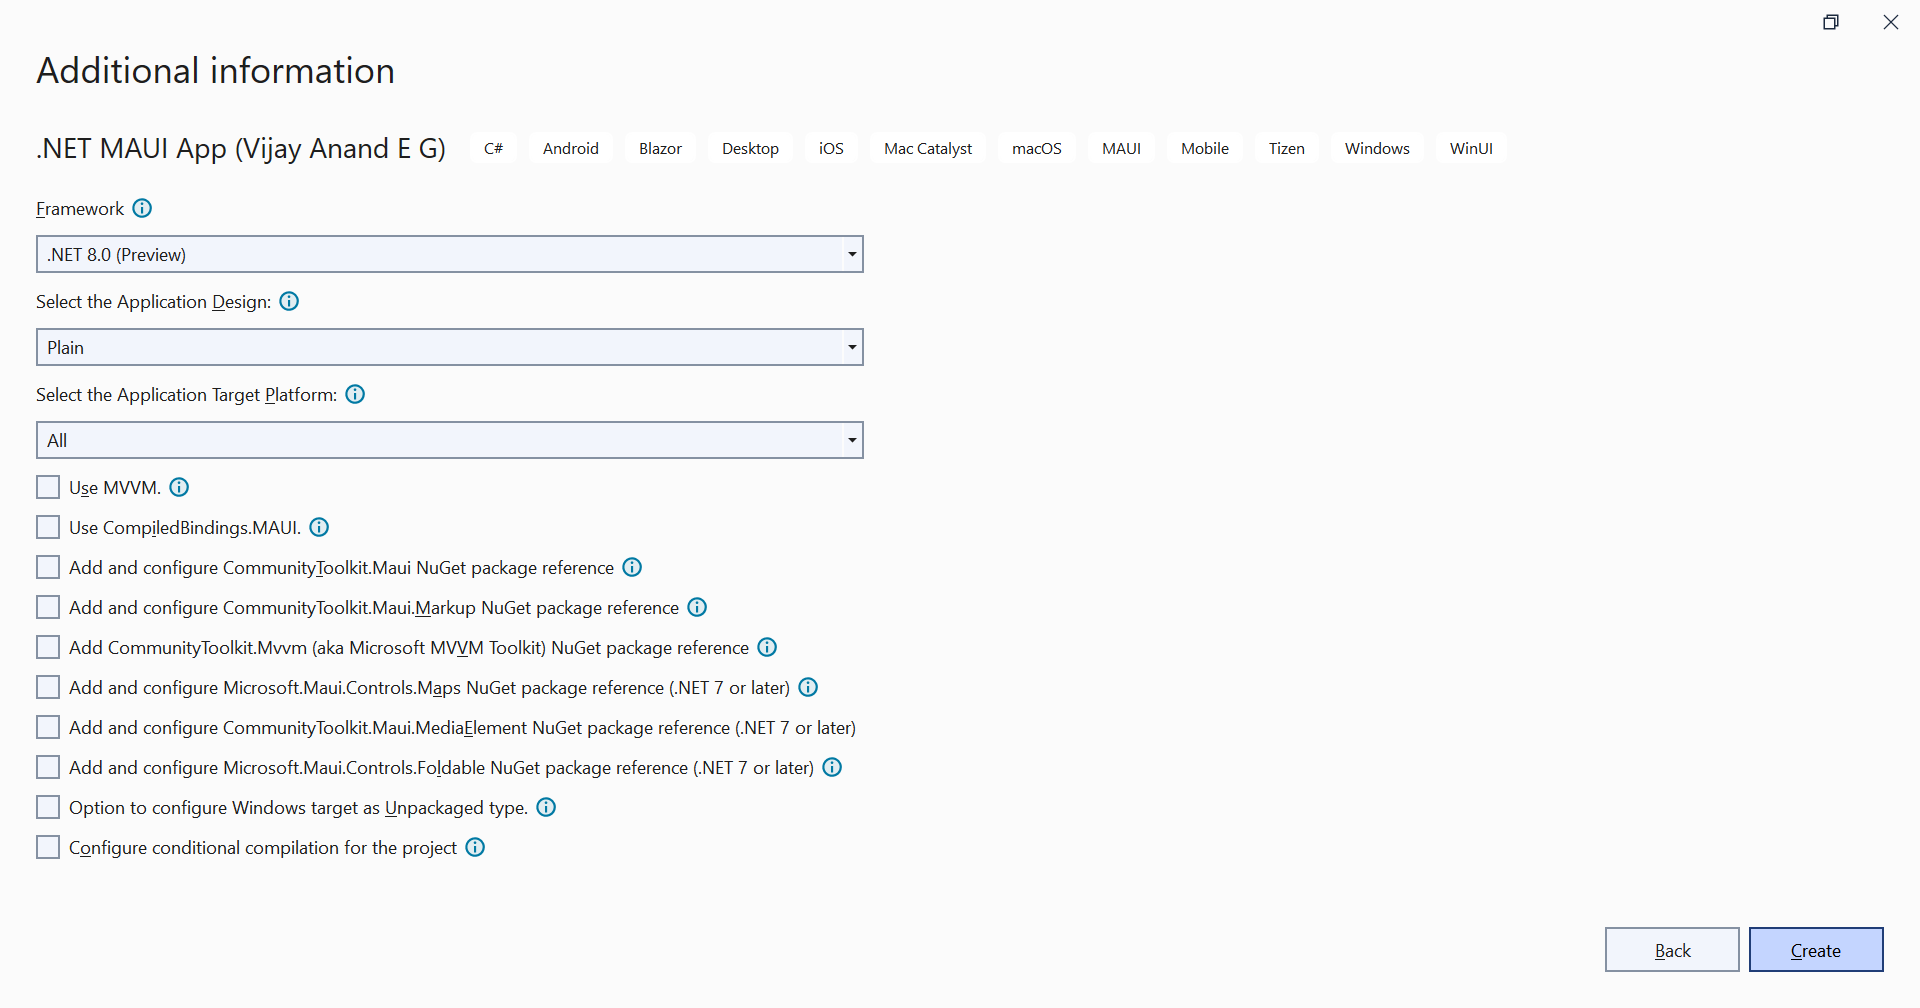
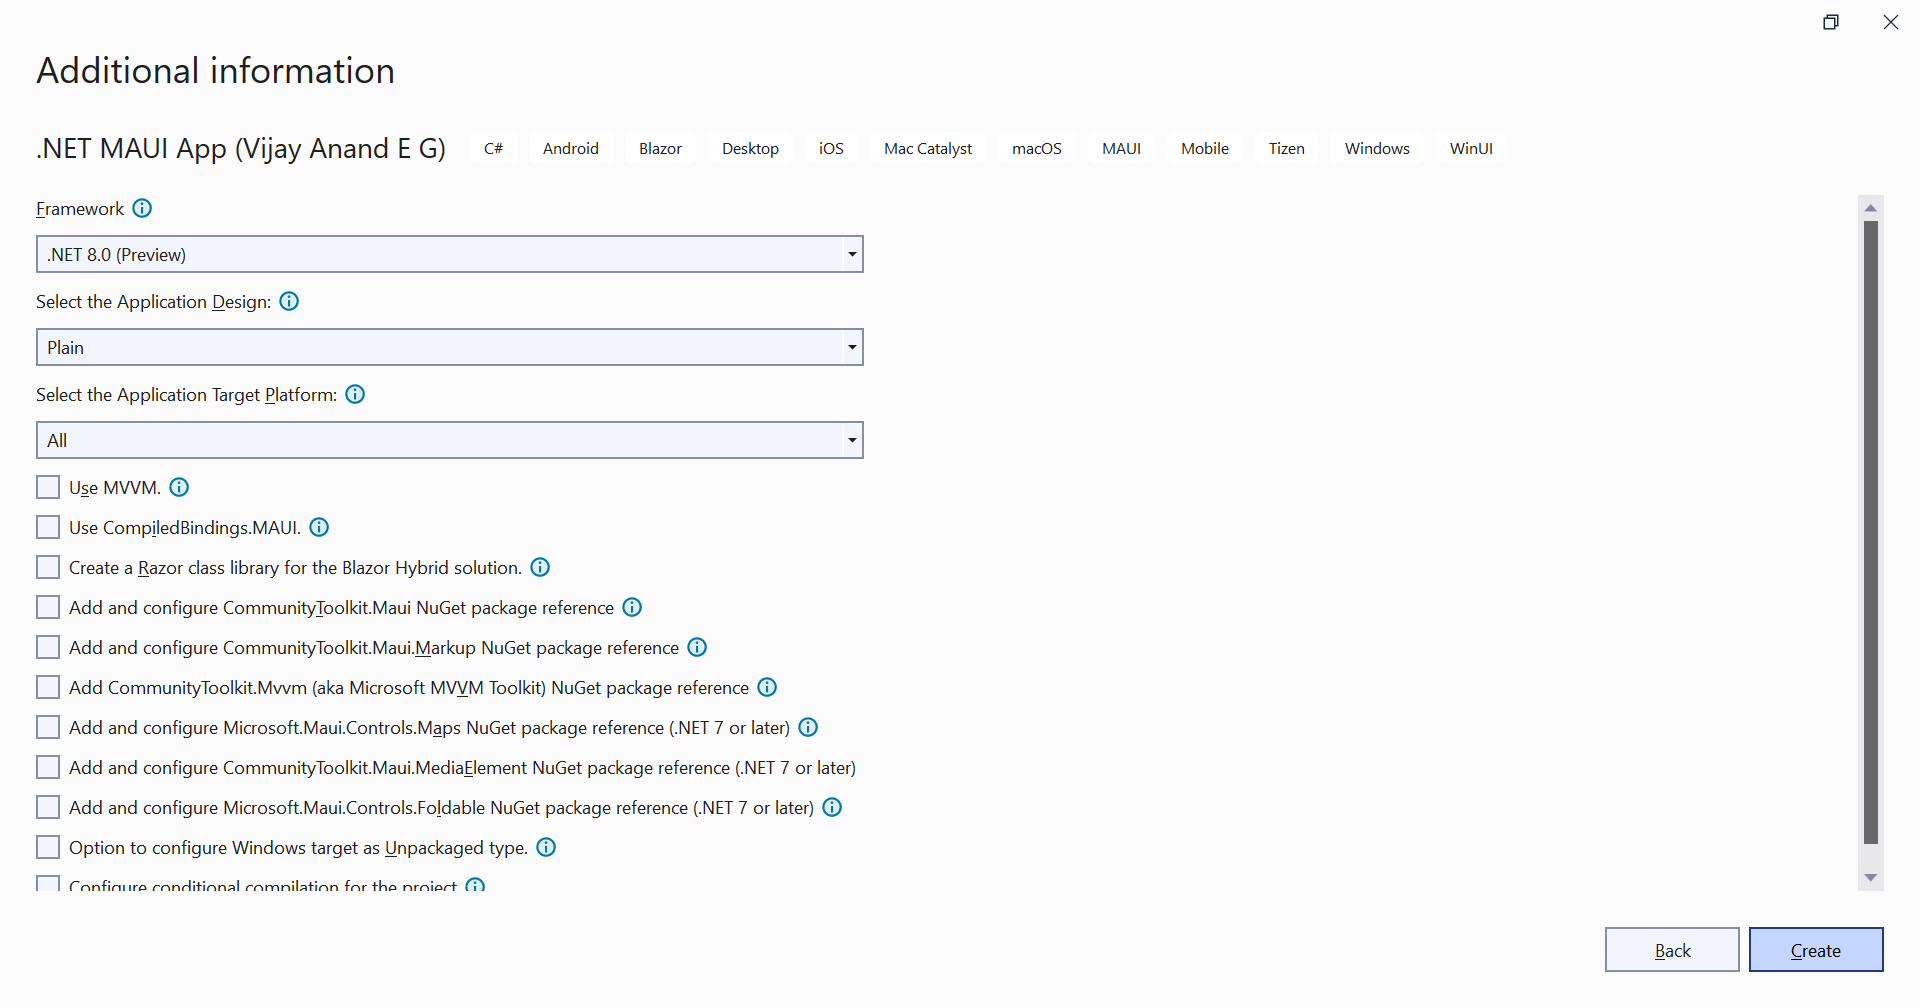
Option to create Razor class library while creating Blazor Hybrid App

Changed region(s): [[0.0312, 0.5536, 0.4375, 0.8919], [0.9688, 0.2153, 1.0, 0.8304]]

diff --git a/src/MauiTemplatesCLI/MauiAppX/MauiProgram.cs b/src/MauiTemplatesCLI/MauiAppX/MauiProgram.cs
@@ -5,7 +5,11 @@ using BlazorBindings.Maui;
 using CommunityToolkit.Maui;
 #endif
 #if Hybrid
+#if RazorLib
+using MauiApp._1.RazorLib.Data;
+#else
 using MauiApp._1.Data;
+#endif
 #endif
 #if Net7OrLater
 using Microsoft.Extensions.Logging;

diff --git a/src/MauiTemplatesCLI/MauiAppX/Data/WeatherForecastService.cs b/src/MauiTemplatesCLI/MauiAppX/Data/WeatherForecastService.cs
@@ -1,4 +1,8 @@
+#if RazorLib
+namespace MauiApp._1.RazorLib.Data
+#else
 namespace MauiApp._1.Data
+#endif
 {
     public class WeatherForecastService
     {

diff --git a/src/MauiTemplatesCLI/MauiAppX/Data/WeatherForecast.cs b/src/MauiTemplatesCLI/MauiAppX/Data/WeatherForecast.cs
@@ -1,4 +1,8 @@
+#if RazorLib
+namespace MauiApp._1.RazorLib.Data
+#else
 namespace MauiApp._1.Data
+#endif
 {
     public class WeatherForecast
     {

diff --git a/README.md b/README.md
@@ -28,7 +28,7 @@ Templates have been updated to support .NET 6/7/8 and is available to install fr
 |Channel|NuGet|VS Marketplace|
 |:---:|:---:|:---:|
 |Stable|[![VijayAnand.MauiTemplates - NuGet Package](https://badgen.net/nuget/v/VijayAnand.MauiTemplates/?icon=nuget)](https://www.nuget.org/packages/VijayAnand.MauiTemplates/)|[![.NET MAUI Project and Item Templates - VS Marketplace](https://badgen.net/vs-marketplace/v/egvijayanand.maui-templates?icon=visualstudio)](https://marketplace.visualstudio.com/items?itemName=egvijayanand.maui-templates)|
-<!--|Preview|[![VijayAnand.MauiTemplates - NuGet Package](https://badgen.net/nuget/v/VijayAnand.MauiTemplates/latest?icon=nuget)](https://www.nuget.org/packages/VijayAnand.MauiTemplates/absoluteLatest)| - |-->
+|Preview|[![VijayAnand.MauiTemplates - NuGet Package](https://badgen.net/nuget/v/VijayAnand.MauiTemplates/latest?icon=nuget)](https://www.nuget.org/packages/VijayAnand.MauiTemplates/absoluteLatest)| - |
 
 ### For VS2022 users:
 
@@ -41,7 +41,6 @@ Extension is made available in the [Visual Studio Marketplace](https://marketpla
 This has Project Templates for:
 
 * .NET MAUI App - An All-in-One .NET MAUI App Project Template - For more details, check out this [article](https://egvijayanand.in/all-in-one-dotnet-maui-app-project-template/ "All-in-One .NET MAUI App Project Template")
-* .NET MAUI App (C#)
 * .NET MAUI Class Library
 * Shared Class Library (Xamarin.Forms and .NET MAUI)
 
@@ -49,27 +48,31 @@ This has Project Templates for:
 
 And has Item Templates for:
 
-* Content Page (.NET MAUI)
-* Content Page (C#) (.NET MAUI)
-* Content Page with ViewModel (.NET MAUI)
-* Content Page (C#) with ViewModel (.NET MAUI)
+* Content Page
+* Content Page (C#)
+* Content Page (Razor)
+* Content Page with ViewModel
+* Content Page (C#) with ViewModel
   - For both the `Page with ViewModel` templates, ensure only the real page name alone is provided as input like `Settings` as the `Page` and `ViewModel` will be suffixed to it like `SettingsPage` and `SettingsViewModel`. And Page will be generated in the `Views` folder and ViewModel will be generated in the `ViewModels` folder.
   - The ViewModels are generated with the base class titled `BaseViewModel` (implementation left to the user).
   - Recommended to add [CommunityToolkit.Mvvm](https://www.nuget.org/packages/CommunityToolkit.Mvvm), an officially supported NuGet package, to make it easy to work with MVVM design pattern.
   - This MVVM - Made Easy [Part 1](https://egvijayanand.in/2022/04/22/mvvm-made-easy/) and [Part 2](https://egvijayanand.in/2022/05/09/mvvm-made-easy-with-microsoft-mvvm-toolkit-part-2/) articles can help you to get started with this brand-new NuGet package.
-* Content View (.NET MAUI)
-* Content View (C#) (.NET MAUI)
-* Resource Dictionary (.NET MAUI)
-* Resource Dictionary (XAML only)(.NET MAUI)
-* Shell Page (.NET MAUI)
-* Custom View and Handler (Regular) (.NET MAUI)
+* Content View
+* Content View (C#)
+* Content View (Razor)
+* Resource Dictionary
+* Resource Dictionary (XAML only)
+* Shell Page
+* Shell Page (C#)
+* Custom View and Handler (Regular)
   - Handler definitions generated in the Platforms folder
-* Custom View and Handler (Cond.) (.NET MAUI)
+* Custom View and Handler (Cond.)
   - Handler definitions generated in the same folder in conditional compilation format
-* Custom View and Renderer (Regular) (.NET MAUI)
+* Custom View and Renderer (Regular)
   - Renderer definitions generated in the Platforms folder
-* Custom View and Renderer (Cond.) (.NET MAUI)
+* Custom View and Renderer (Cond.)
   - Renderer definitions generated in the same folder in conditional compilation format
+* Comet Page (C#)
 * Partial Class (C#)
   - Made available in the section titled `Code`
 \
@@ -290,6 +293,10 @@ MVVM is a delightful and development-friendly design pattern to work with. To su
 
 *Note: Opting for this MVVM option will not have any impact on the App created with Web-based Razor syntax or MVU based Comet.*
 
+While creating a Blazor Hybrid App, an option to abstract the Razor components as a separate Razor class library.
+
+* `-rcl` | `--razor-class-library` - Default is `false`
+
 The target for the Windows platform can be either `Package` (MSIX) or `Unpackaged`. By default, it is set as `Package`, this can be overridden while creating the project by including the below parameter:
 
 * `-wu` | `--windows-unpackaged` - Default is `false`
@@ -421,6 +428,10 @@ Option to use MVVM (Compiled Bindings):
 ```shell
 dotnet new mauiapp -n MyApp -mvvm -icb
 ```
+Option to create Razor class library while creating Blazor Hybrid App:
+```shell
+dotnet new mauiapp -n MyApp -dp Hybrid -rcl
+```
 Option to include NuGet packages:
 ```shell
 dotnet new mauiapp -n MyApp -dp Shell -it -im -imt -ime -inm -if
@@ -540,6 +551,10 @@ dotnet new mauiapp --name MyApp --design-pattern Markup --use-mvvm
 Option to use MVVM (Compiled Bindings):
 ```shell
 dotnet new mauiapp --name MyApp --use-mvvm --include-compiled-bindings
+```
+Option to create Razor class library while creating Blazor Hybrid App:
+```shell
+dotnet new mauiapp --name MyApp --design-pattern Hybrid --razor-class-library
 ```
 Option to include NuGet packages:
 ```shell

diff --git a/src/MauiTemplatesCLI/overview.md b/src/MauiTemplatesCLI/overview.md
@@ -195,6 +195,10 @@ MVVM is a delightful and development-friendly design pattern to work with. To su
 
 *Note: Opting for this MVVM option will not have any impact on the App created with Web-based Razor syntax or MVU based Comet.*
 
+While creating a Blazor Hybrid App, an option to abstract the Razor components as a separate Razor class library.
+
+* `-rcl` | `--razor-class-library` - Default is `false`
+
 The target for the Windows platform can be either `Package` (MSIX) or `Unpackaged`. By default, it is set as `Package`, this can be overridden while creating the project by including the below parameter:
 
 * `-wu` | `--windows-unpackaged` - Default is `false`
@@ -324,6 +328,10 @@ Option to use MVVM (Compiled Bindings):
 ```shell
 dotnet new mauiapp -n MyApp -mvvm -icb
 ```
+Option to create Razor class library while creating Blazor Hybrid App:
+```shell
+dotnet new mauiapp -n MyApp -dp Hybrid -rcl
+```
 Option to include NuGet packages:
 ```shell
 dotnet new mauiapp -n MyApp -dp Shell -it -im -imt -ime -inm -if
@@ -443,6 +451,10 @@ dotnet new mauiapp --name MyApp --design-pattern Markup --use-mvvm
 Option to use MVVM (Compiled Bindings):
 ```shell
 dotnet new mauiapp --name MyApp --use-mvvm --include-compiled-bindings
+```
+Option to create Razor class library while creating Blazor Hybrid App:
+```shell
+dotnet new mauiapp --name MyApp --design-pattern Hybrid --razor-class-library
 ```
 Option to include NuGet packages:
 ```shell
